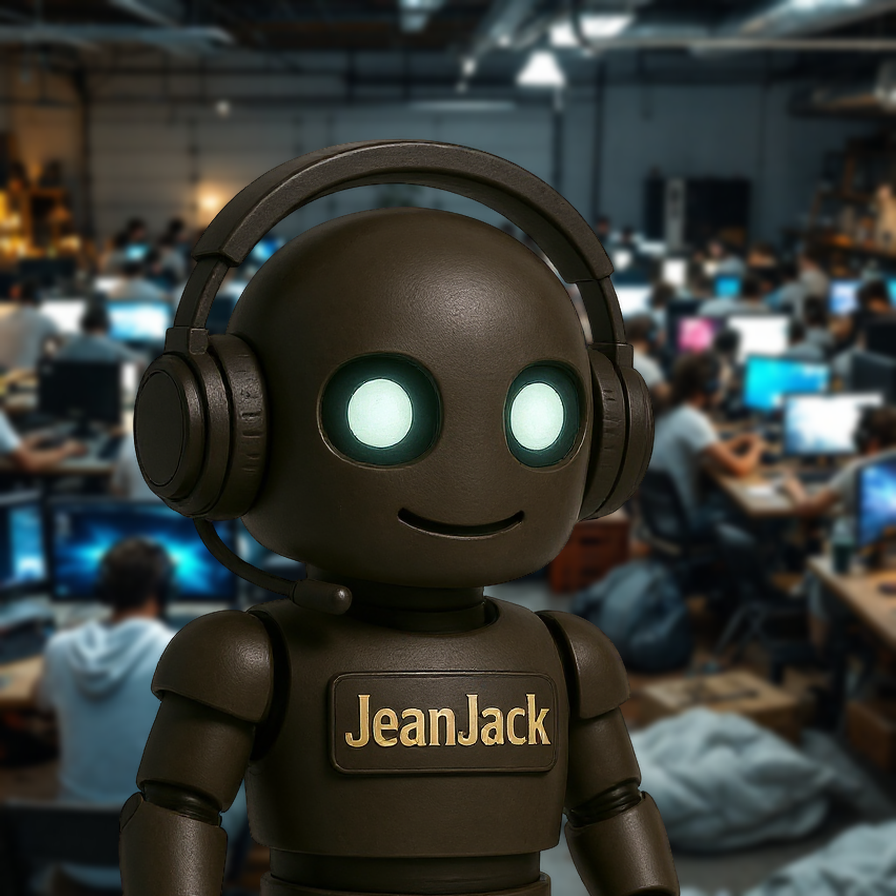
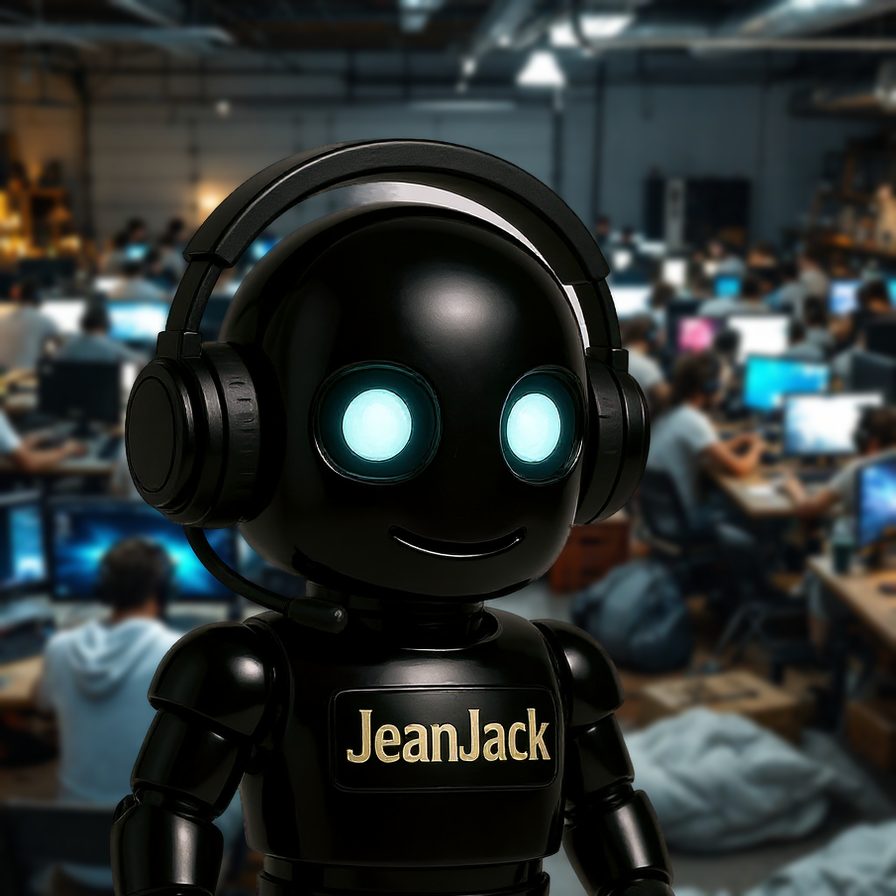
JeanJack v4: polished glossy black body, matte black headset/plate, gold lettering
- raw regenerated from the user's reference: glossy black metal
  with specular highlights, no brown tint, uniform bright lighting
- known generator limit, documented: eye glow renders white/pale
  blue on glossy black bodies (3/3 attempts with explicit amber
  wording); the user's original artwork also has white eyes
- plate 'JeanJack' gold lettering OCR-verified
- anchor measured (0.5787,0.6006) — auto-detection drifts on
  glossy renders, always verify before composing
- avatar: lossless PNG 890 KB under the < 1 MB bound

Changed region(s): [[0.125, 0.1562, 0.7812, 1.0]]

diff --git a/examples/character/JeanJack/prompt.md b/examples/character/JeanJack/prompt.md
@@ -14,30 +14,30 @@ shape, same gold nameplate), not a crop of the reference.
 ## Prompt used (edit of the user's reference, not of a prior
 generation)
 
-> Regenerate this exact same robot character. Keep the identity
-> identical: same proportions and rounded head shape, glowing round
-> bright golden-yellow eyes, same small subtle closed-mouth smirk
-> (no teeth, no nose), same nameplate position on the chest, slim
-> three-finger robot hands. Changes: remove the baguette and
-> everything held in his hands (empty hands held slightly away from
-> the body); the body is a medium warm-brown satin metal, a touch
-> less bright and less glossy than a mirror finish but clearly
-> lighter than dark matte brown, softly and evenly lit across the
-> whole figure by uniform bright studio light, no dark areas, no
-> harsh shadows; the gaming headset is matte black with an attached
-> matte-black microphone reaching under the mouth; the nameplate on
-> the chest is matte black with the name "JeanJack" engraved in
-> shiny gold letters; full body visible head to feet, standing on a
-> completely flat uniform light-gray background. Sharp focus, high
-> detail, no other objects, no readable text other than the
-> nameplate.
+> Regenerate this exact same robot character as if freshly
+> polished. Keep the identity identical: same proportions and
+> rounded head shape, glowing round bright eyes, same small subtle
+> closed-mouth smirk (no teeth, no nose), same nameplate position on
+> the chest, slim three-finger robot hands. Changes: remove the
+> baguette and everything held in his hands (empty hands held
+> slightly away from the body); the body is polished glossy BLACK
+> metal, mirror-like with bright specular highlights, no brown
+> tint, catching the light across the whole figure; uniform bright
+> soft studio lighting, no dark areas; the gaming headset is matte
+> black with an attached matte-black microphone reaching under the
+> mouth; the nameplate on the chest is matte black with the name
+> "JeanJack" engraved in shiny gold letters; full body visible
+> head to feet, standing on a completely flat uniform light-gray
+> background. Sharp focus, high detail, no other objects, no
+> readable text other than the nameplate.
 
 ## Why each constraint (session-validated)
 
-- **medium warm-brown satin, uniform lighting** — iteration 1 was
-  dark matte brown (unreadable against the LAN background), the
-  first brightening was high-gloss (user: "a touch less bright than
-  v2"); satin keeps the readability without the mirror glare;
+- **polished glossy black, uniform lighting** — the user iterated:
+  dark matte brown -> bright glossy brown ("too dark") -> satin
+  brown ("less bright than v2") -> polished black, lighter and
+  shinier, no brown tint ("he just changed clothes and took a
+  shower");
 - **flat uniform background** — the crop step depends on it;
 - **full body visible** — the pipeline crops, the render must not;
 - **empty hands, nothing on the back** — held items (the baguette)
@@ -56,7 +56,10 @@ generation)
 ## Blocking criteria before accepting a run
 
 1. Recognizably the same character as `original.png` (zoom on the
-   face before anything else).
+   face before anything else). Note: on a glossy black body the
+   generator renders the eye glow white or pale blue, not amber —
+   three attempts with explicit amber wording did not change it;
+   the user's original artwork also has white eyes.
 2. Full body visible, flat background, empty hands.
 3. One microphone only, attached to the headset.
 4. No nose, closed-mouth smirk.

diff --git a/examples/avatar/prompt.md b/examples/avatar/prompt.md
@@ -26,15 +26,15 @@ python tools/make_avatar.py cutout \
 #    explicitly — it is a per-request constraint, never a universal
 #    default; ask the user when absent. This case asks for < 1 MB
 #    (999,424 bytes = 976 KiB).
-#    anchor: auto-detected on the gold nameplate letters (verified
-#    against a manual plate measurement on this crop: 0.565,0.545 —
-#    the satin render does not fool the detector; the earlier glossy
-#    render did). Verify the detection, pass measured fractions
-#    (--anchor cx,bottom) when it drifts.
+#    --anchor: measured plate position on this crop. The auto
+#    detector drifts on this render (0.51 vs 0.58 measured) —
+#    ALWAYS verify the auto-detected anchor against a manual plate
+#    measurement, and pass the measured fractions when it drifts.
 python tools/make_avatar.py compose \
     --bg examples/scene/lan/background.png \
     --character examples/character/JeanJack/crop.png \
-    --out examples/avatar/JeanJack.png --max-kb 976
+    --out examples/avatar/JeanJack.png \
+    --anchor 0.5787,0.6006 --max-kb 976
 ```
 
 ## Retained parameters (user-validated)
@@ -42,13 +42,13 @@ python tools/make_avatar.py compose \
 | Parameter | Value | Reason |
 |---|---|---|
 | `--blur` | 4 | background readable, character detached |
-| anchor | auto | verified on the gold letters; pass measured fractions if the detection drifts |
+| `--anchor` | 0.5787,0.6006 | measured nameplate position; the auto-detection drifts on glossy renders |
 | `--brightness` | none | character and scene are both natively bright; brightness correction is allowed only on explicit user request |
 | `--max-kb` | 976 | the < 1 MB bound of THIS case; per-request, ask when absent |
 
 ## Size-bound behavior (per-request)
 
-- PNG first; here the lossless PNG fits the bound (995 KB for the
+- PNG first; here the lossless PNG fits the bound (890 KB for the
   999,424-byte ask) so no compression at all was needed.
 - If the bound is set and the PNG exceeds it, the pipeline falls
   back to JPEG and searches for the HIGHEST quality whose file size

diff --git a/README.md b/README.md
@@ -96,14 +96,16 @@ python tools/make_avatar.py cutout \
     --src examples/character/JeanJack/raw.png \
     --out examples/character/JeanJack/crop.png
 
-# 3. compose the avatar — anchor auto-detected on the nameplate
-#    (verify it; pass measured fractions if the detection drifts).
-#    The size bound is a per-request constraint (ask the user when
-#    absent — there is no universal default).
+# 3. compose the avatar — anchor on the nameplate (auto-detected;
+#    verify it against a manual plate measurement and pass the
+#    measured fractions when it drifts). The size bound is a
+#    per-request constraint (ask the user when absent — there is
+#    no universal default).
 python tools/make_avatar.py compose \
     --bg examples/scene/lan/background.png \
     --character examples/character/JeanJack/crop.png \
-    --out examples/avatar/JeanJack.png --max-kb 976
+    --out examples/avatar/JeanJack.png \
+    --anchor 0.5787,0.6006 --max-kb 976
 ```
 
 (The JeanJack case asks for < 1 MB: `--max-kb 976` = 999,424 bytes.)

diff --git a/.agents/skills/avatar/SKILL.md b/.agents/skills/avatar/SKILL.md
@@ -165,8 +165,8 @@ The anchor maps the head-to-plate span onto 70% of the frame height;
 - `examples/character/JeanJack/` — `original.png` (identity
   reference), `raw.png`, `crop.png`, `prompt.md`;
 - `examples/scene/lan/` — `raw.png`, `background.png`, `prompt.md`;
-- `examples/avatar/JeanJack.png` — 896 px, 995 KB: the lossless
-  PNG fits this case's < 1 MB bound directly (earlier, glossier
+- `examples/avatar/JeanJack.png` — 896 px, 890 KB: the lossless
+  PNG fits this case's < 1 MB bound directly (earlier, busier
   renders needed the JPEG fallback).
 - `examples/avatar/prompt.md` — the exact combination recipe.
 
